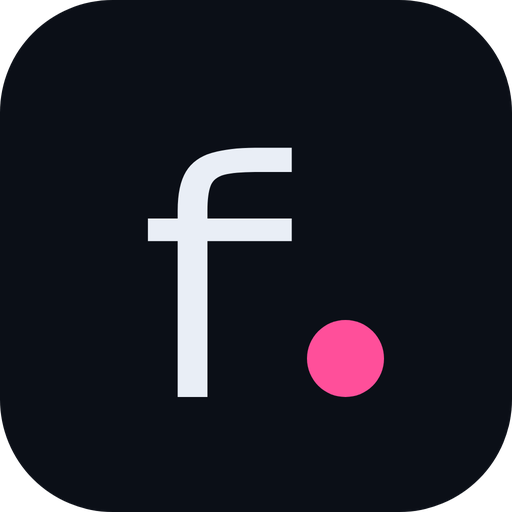
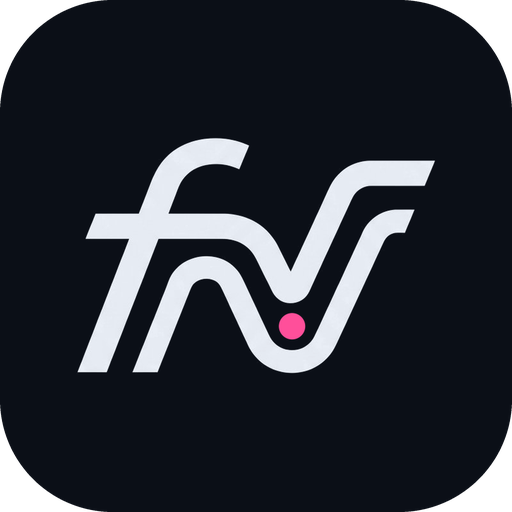
Recupera el monograma fv en negativo con el punto rosa
- img/logo-mark-neg.png: el fv original en blanco con el punto interior rosa
- Delante de «favent.» en la cabecera y el pie
- Iconos e imagen social con el monograma fv
- DESIGN.md (sección Logo) y CLAUDE.md actualizados

Changed region(s): [[0.1562, 0.25, 0.8438, 0.7812]]

diff --git a/index.html b/index.html
@@ -423,6 +423,8 @@ button.fp-day{cursor:pointer;width:30px;height:30px;border-radius:15px;font-size
 .logo:hover{color:var(--ink)}
 .logo-cur{display:inline-block;width:.24em;height:.24em;margin-left:.1em;border-radius:50%;background:var(--signal)}
 .logo-sm{font-size:14px}
+.logo-mark{align-self:center;height:28px;width:auto;margin-right:12px}
+.logo-sm .logo-mark{height:20px;margin-right:9px}
 .eyebrow{display:inline-flex;align-items:center;gap:10px;font-family:'Geist Mono',monospace;font-size:13px;font-weight:500;letter-spacing:0;color:var(--ink-2)}
 .eyebrow::before{content:"";width:7px;height:7px;flex-shrink:0;background:var(--signal)}
 .intro > .eyebrow{color:var(--ink-2)}
@@ -541,7 +543,7 @@ body::after{content:"";position:fixed;inset:0;z-index:95;pointer-events:none;opa
 
   <nav class="topnav" style="max-width: 1200px; margin: 0 auto; padding: 18px 24px" aria-label="Principal">
     <div class="n-brand" style="display: flex; align-items: center; gap: 10px">
-      <a href="#" class="logo">favent<span class="logo-cur" aria-hidden="true"></span></a>
+      <a href="#" class="logo"><img class="logo-mark" src="img/logo-mark-neg.png" alt="" width="42" height="28">favent<span class="logo-cur" aria-hidden="true"></span></a>
       <span class="n-badge" style="white-space: nowrap; font-size: 10px; font-weight: 600; letter-spacing: 0.12em; color: var(--ink-2); border: 1px solid var(--chipline); padding: 3px 8px; border-radius: 999px">B2B SERVICE</span>
     </div>
     <div class="n-cta" style="display: flex; gap: 8px; align-items: center">
@@ -956,7 +958,7 @@ body::after{content:"";position:fixed;inset:0;z-index:95;pointer-events:none;opa
 
   <footer style="border-top: 1px solid var(--line)">
     <div style="max-width: 1200px; margin: 0 auto; padding: 28px 24px; display: flex; flex-wrap: wrap; gap: 16px; justify-content: space-between; align-items: center; font-size: 13px; color: var(--ink-3)">
-      <span class="logo logo-sm">favent<span class="logo-cur" aria-hidden="true"></span></span>
+      <span class="logo logo-sm"><img class="logo-mark" src="img/logo-mark-neg.png" alt="" width="30" height="20" loading="lazy">favent<span class="logo-cur" aria-hidden="true"></span></span>
       <!-- Oculto hasta que existan privacidad.html, condiciones.html y un email de contacto: rellenar los href y quitar «hidden» -->
       <div hidden style="display: flex; flex-wrap: wrap; gap: 20px"><a href="privacidad.html" style="text-decoration: none; color: var(--ink-3)">Privacidad</a><a href="condiciones.html" style="text-decoration: none; color: var(--ink-3)">Condiciones</a><a href="mailto:" style="text-decoration: none; color: var(--ink-3)">Contacto</a></div>    </div>
   </footer>

diff --git a/DESIGN.md b/DESIGN.md
@@ -1,7 +1,7 @@
 ---
 version: alpha
 name: Favent-design-system
-description: "Lienzo oscuro de producto B2B construido sobre #0B0F17 (azul casi negro), texto gris claro (#E9EEF6) y dos acentos con funciones separadas: rosa señal (#FF4F9A) para la marca y el progreso, y azul eléctrico suave (#4DA8FF / #7CC4FF) para la energía, el movimiento y el énfasis. La web se lee como un canal de ventas técnico y serio: Geist en titulares (500, tracking negativo), Geist Mono en etiquetas, códigos e importes, y el logotipo en Michroma (extendida y técnica) con punto rosa. La profundidad viene del vidrio esmerilado (glassmorfismo) sobre una textura de puntos, de algunos relieves neumórficos y de interfaces de ejemplo claras, tratadas como «pantallas encendidas». En el inicio, pistas de procesador recorridas por pulsos de energía azul."
+description: "Lienzo oscuro de producto B2B construido sobre #0B0F17 (azul casi negro), texto gris claro (#E9EEF6) y dos acentos con funciones separadas: rosa señal (#FF4F9A) para la marca y el progreso, y azul eléctrico suave (#4DA8FF / #7CC4FF) para la energía, el movimiento y el énfasis. La web se lee como un canal de ventas técnico y serio: Geist en titulares (500, tracking negativo), Geist Mono en etiquetas, códigos e importes, y el logotipo formado por el monograma «fv» en negativo con el punto rosa (img/logo-mark-neg.png) y la palabra «favent.» en Michroma. La profundidad viene del vidrio esmerilado (glassmorfismo) sobre una textura de puntos, de algunos relieves neumórficos y de interfaces de ejemplo claras, tratadas como «pantallas encendidas». En el inicio, pistas de procesador recorridas por pulsos de energía azul."
 
 colors:
   primary: "#FF4F9A"
@@ -280,7 +280,7 @@ Las **interfaces de ejemplo** (panel del producto, mapa, ranking, equipo y bloqu
 ### Font Family
 - **Geist** (Google Fonts, 400/500/600): titulares, texto y botones.
 - **Geist Mono** (400/500): etiquetas de sección, códigos (FV-7K2Q), importes, estados, selector de idioma.
-- **Michroma** (400, único grosor): solo el logotipo «favent.» y el icono «f.».
+- **Michroma** (400, único grosor): solo la palabra «favent.» del logotipo.
 
 ### Hierarchy
 
@@ -367,6 +367,12 @@ Minimalista: mucho aire entre secciones y pocas cajas. Un bloque tiene que justi
 **`button-chip`**: cápsula pequeña en mono con relieve («Pausar fondo»). 30 px.
 
 Todos los botones: verbo al principio, 1–3 palabras, `transform: scale(.97)` al pulsar.
+
+### Logo
+- **Monograma «fv»** en negativo: trazo `{colors.ink}` y punto interior `{colors.primary}`, fondo transparente (`img/logo-mark-neg.png`, 194 × 128 px, generado a partir del original `img/logo-mark.png`). Va delante de la palabra: 28 px de alto en la cabecera y 20 px en el pie.
+- **Palabra** «favent.» en Michroma con el punto final rosa (`.logo` + `.logo-cur`, en HTML/CSS).
+- **Iconos** (`img/favicon-32.png`, `img/icon-192.png`, `img/icon-512.png`, `img/apple-touch-icon.png`): el monograma «fv» en negativo al 70 % del ancho sobre `{colors.canvas}`; esquinas redondeadas y transparencia, salvo el de Apple, que es cuadrado y opaco.
+- **Imagen social** (`img/og-image.png`): monograma, palabra, «B2B SERVICE», el titular y la línea de recorrido sobre el lienzo oscuro.
 
 ### Navigation
 - Barra superior en `{colors.canvas-deep}` con un enlace a «Solicita acceso».

diff --git a/CLAUDE.md b/CLAUDE.md
@@ -22,9 +22,9 @@ Favent es el canal de ventas profesional B2B entre empresas de servicios. Quien 
 
 Resumen (el detalle está en `DESIGN.md`):
 - Nombre: siempre **favent** en minúscula en el logotipo, "Favent" en el texto. Etiqueta secundaria: **B2B SERVICE**.
-- Logotipo: «favent» en Michroma con punto final rosa (`.logo` + `.logo-cur`, en HTML/CSS). Icono «f.» en `img/favicon-32.png`, `img/icon-192.png`, `img/icon-512.png`, `img/apple-touch-icon.png`; imagen social en `img/og-image.png`. Se generan desde HTML con las fuentes reales; regenerarlos si cambia el logotipo.
+- Logotipo: monograma «fv» en negativo con el punto interior rosa (`img/logo-mark-neg.png`, sacado del original `img/logo-mark.png`) delante de la palabra «favent.» en Michroma con punto rosa (`.logo` + `.logo-cur`). Los iconos (`img/favicon-32.png`, `img/icon-192.png`, `img/icon-512.png`, `img/apple-touch-icon.png`) son el monograma «fv»; la imagen social está en `img/og-image.png`. Si cambia el logotipo, hay que regenerarlos.
 - Tema oscuro: lienzo `#0B0F17`, texto `#E9EEF6`; rosa señal `#FF4F9A` (marca y progreso) y azul eléctrico `#4DA8FF` / `#7CC4FF` (energía y énfasis). Las interfaces de ejemplo son «pantallas encendidas» claras.
-- Tipografías: Geist (titulares y texto), Geist Mono (etiquetas, códigos, importes, estados), Michroma (solo logotipo e icono).
+- Tipografías: Geist (titulares y texto), Geist Mono (etiquetas, códigos, importes, estados), Michroma (solo la palabra del logotipo).
 - Sin naranja, sin degradados de color visibles, sin emojis, sin transición de día y noche.
 
 ## Textos y tono
